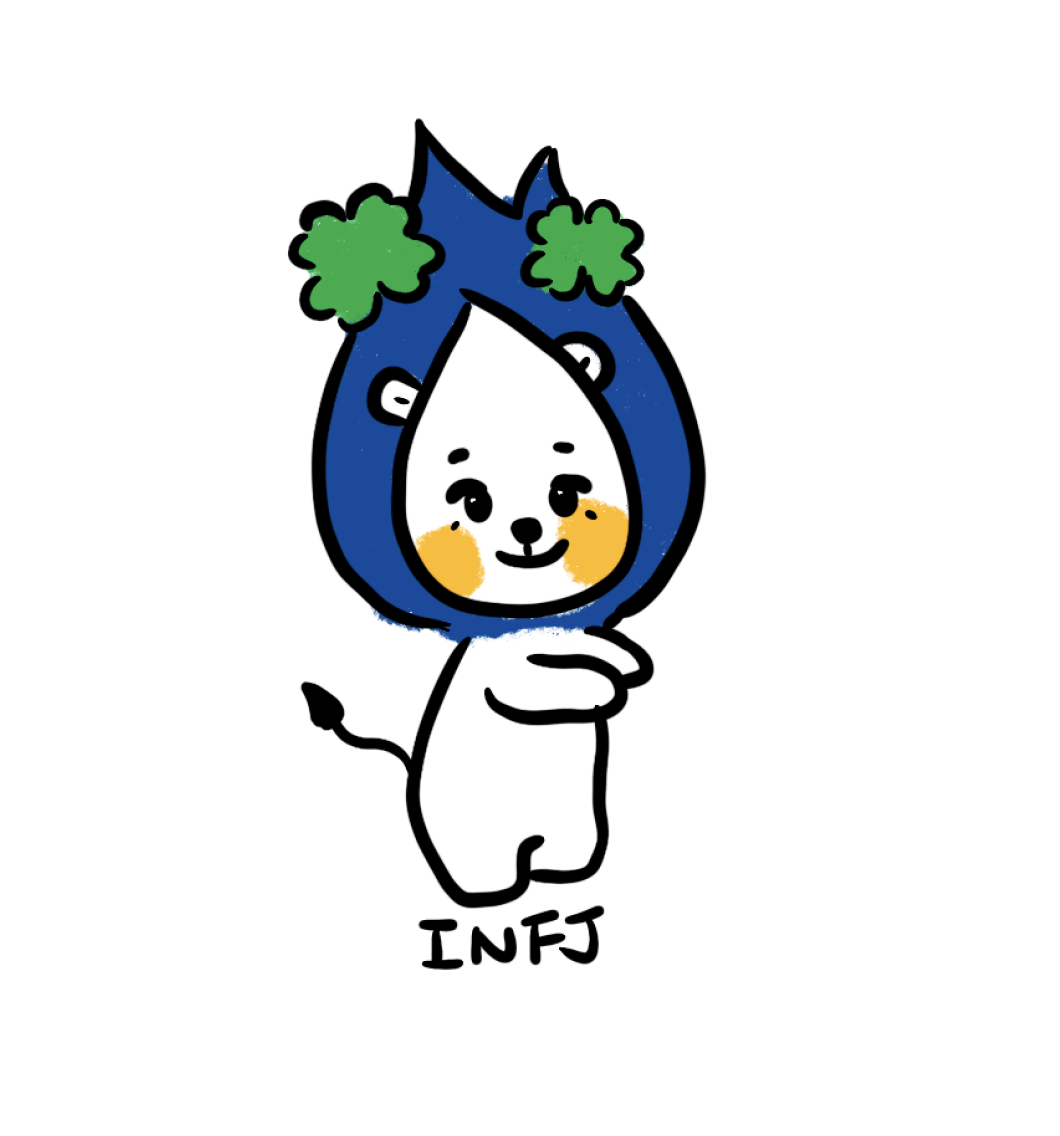
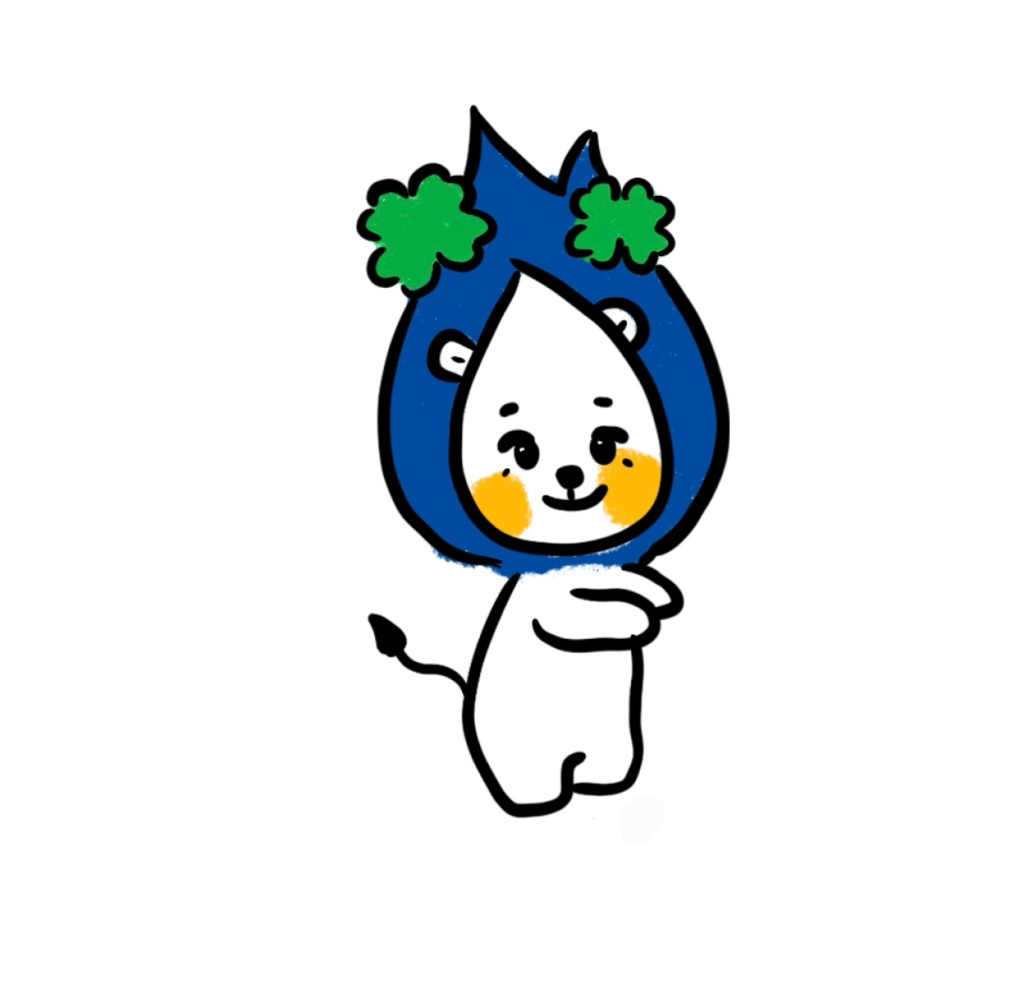
[feat]MbtiImgEdit

Changed region(s): [[0.2743, 0.093, 0.7316, 0.868], [0.2743, 0.589, 0.3353, 0.651]]

diff --git a/src/page/Mbti/Mbti.jsx b/src/page/Mbti/Mbti.jsx
@@ -1,6 +1,7 @@
 import React from 'react';
 import { useNavigate } from "react-router-dom";
 import './Mbti.css';
+import MainMbti from '../../asset/MainMbti.png';
 
 
 
@@ -31,7 +32,10 @@ function Mbti (){
     <div className='mbti' id='mbti_main'>
         <div id='mbti_title'></div>
         <div id='subTitle'>당신의 횃불이 유형은?</div>
-        <div id='mbtiMain_img'></div>
+        
+        <div id='mbtiMain_img'>
+        <img  id="mbtiMain_img" src={MainMbti}/>
+        </div>
         <button 
         id='test_start'
         className="bottom-Button" 

diff --git a/src/page/Login/Login7.jsx b/src/page/Login/Login7.jsx
@@ -7,7 +7,7 @@ import './Login.css';
 
 // 생년월일 입력
 const Login7 = () => {
-  const { User, updateUser } = useContext(UserContext);
+  const { User, updcoateUser } = useContext(UserContext);
   const [year, setYear] = useState("");
   const [month, setMonth] = useState("");
   const [day, setDay] = useState("");
@@ -69,7 +69,6 @@ const Login7 = () => {
     if (!validateBirthdate(year, month, day)) {
       return;
     }
-    
    
     try {
       const randomImageIndex = Math.floor(Math.random() * 6);

diff --git a/src/page/Mbti/Mbti.css b/src/page/Mbti/Mbti.css
@@ -181,12 +181,10 @@
       }
       #mbtiMain_img{
          
-        width: 80%;
-        height: 300px;
+        width: 100%;
+        height: 370px;
         background: #D9D9D9;
         place-self: center center;
-
-       
 
       }
 
